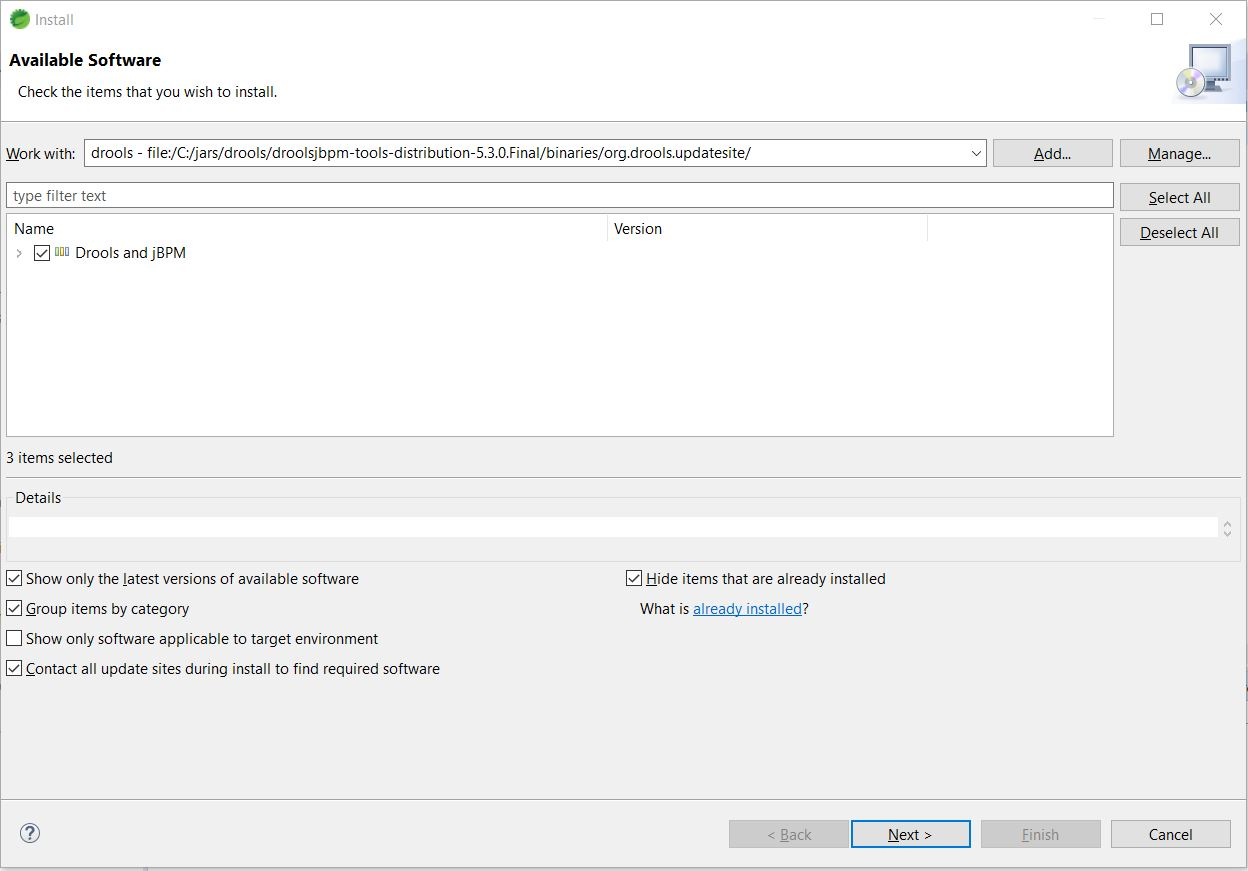
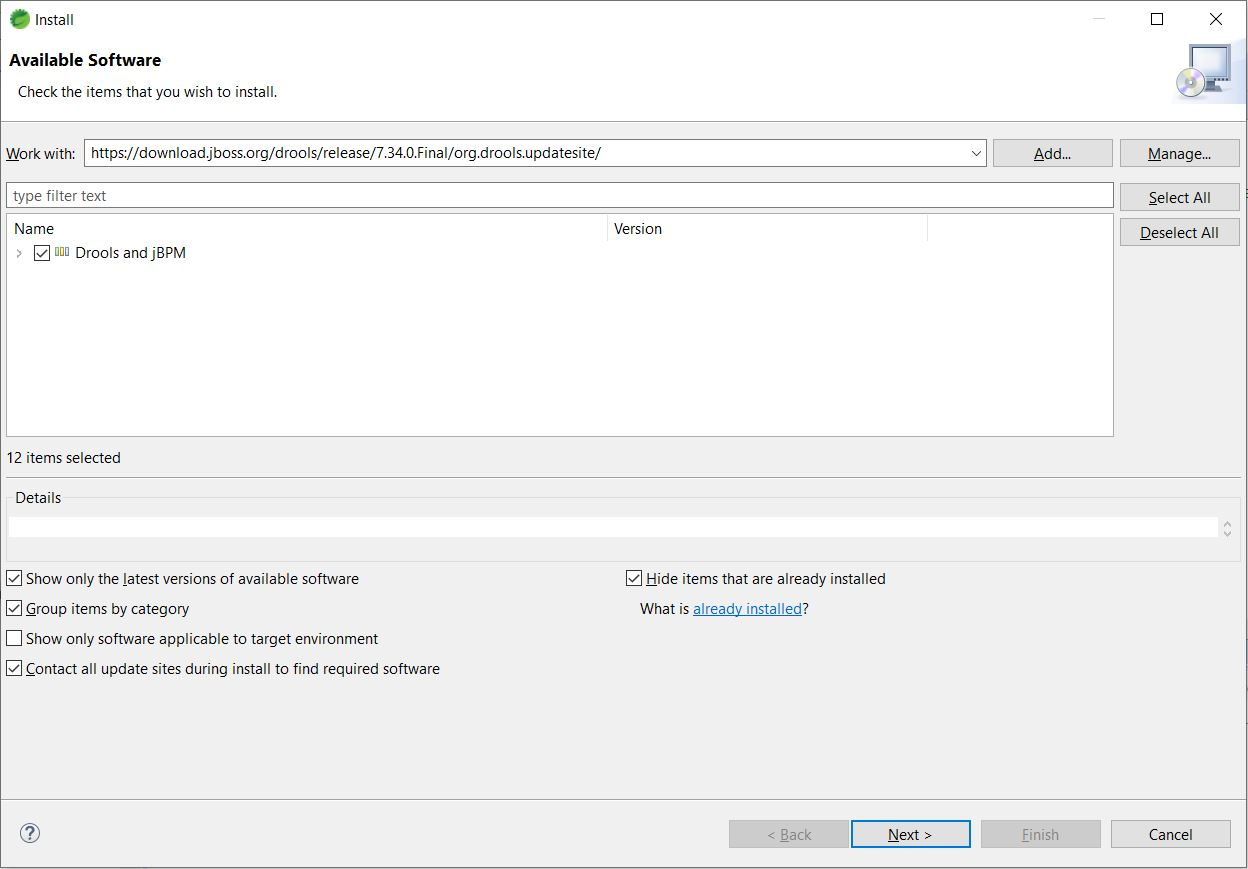
others

diff --git a/drools/drools-hello-world/src/main/java/com/sample/DroolsTest.java b/drools/drools-hello-world/src/main/java/com/sample/DroolsTest.java
@@ -1,0 +1,80 @@
+package com.sample;
+
+import org.drools.KnowledgeBase;
+import org.drools.KnowledgeBaseFactory;
+import org.drools.builder.KnowledgeBuilder;
+import org.drools.builder.KnowledgeBuilderError;
+import org.drools.builder.KnowledgeBuilderErrors;
+import org.drools.builder.KnowledgeBuilderFactory;
+import org.drools.builder.ResourceType;
+import org.drools.io.ResourceFactory;
+import org.drools.logger.KnowledgeRuntimeLogger;
+import org.drools.logger.KnowledgeRuntimeLoggerFactory;
+import org.drools.runtime.StatefulKnowledgeSession;
+
+/**
+ * This is a sample class to launch a rule.
+ */
+public class DroolsTest {
+
+    public static final void main(String[] args) {
+        try {
+            // load up the knowledge base
+            KnowledgeBase kbase = readKnowledgeBase();
+            StatefulKnowledgeSession ksession = kbase.newStatefulKnowledgeSession();
+            KnowledgeRuntimeLogger logger = KnowledgeRuntimeLoggerFactory.newFileLogger(ksession, "test");
+            // go !
+            Message message = new Message();
+            message.setMessage("Hello World");
+            message.setStatus(Message.HELLO);
+            ksession.insert(message);
+            ksession.fireAllRules();
+            logger.close();
+        } catch (Throwable t) {
+            t.printStackTrace();
+        }
+    }
+
+    private static KnowledgeBase readKnowledgeBase() throws Exception {
+        KnowledgeBuilder kbuilder = KnowledgeBuilderFactory.newKnowledgeBuilder();
+        kbuilder.add(ResourceFactory.newClassPathResource("Sample.drl"), ResourceType.DRL);
+        KnowledgeBuilderErrors errors = kbuilder.getErrors();
+        if (errors.size() > 0) {
+            for (KnowledgeBuilderError error: errors) {
+                System.err.println(error);
+            }
+            throw new IllegalArgumentException("Could not parse knowledge.");
+        }
+        KnowledgeBase kbase = KnowledgeBaseFactory.newKnowledgeBase();
+        kbase.addKnowledgePackages(kbuilder.getKnowledgePackages());
+        return kbase;
+    }
+
+    public static class Message {
+
+        public static final int HELLO = 0;
+        public static final int GOODBYE = 1;
+
+        private String message;
+
+        private int status;
+
+        public String getMessage() {
+            return this.message;
+        }
+
+        public void setMessage(String message) {
+            this.message = message;
+        }
+
+        public int getStatus() {
+            return this.status;
+        }
+
+        public void setStatus(int status) {
+            this.status = status;
+        }
+
+    }
+
+}

diff --git a/drools/installation/README.md b/drools/installation/README.md
@@ -4,9 +4,9 @@
 * Extract zip
 * Install in Eclipse
 	* Open Eclipse - Help - Install New Software...
-	* Click 'Add' button
-	* Click 'Local' button
-	* Select `droolsjbpm-tools-distribution-5.3.0.Final\binaries\org.drools.updatesite`. Select `Drools and jBPM` and Click `Next` button
+	* Paste this entry 
+		* https://download.jboss.org/drools/release/7.34.0.Final/org.drools.updatesite/
+	* Select `Drools and jBPM` check box
 ![picture alt](1.jpg "select - org.drools.updatesite")
 	* Click `Next` button
 ![picture](2.jpg)	
